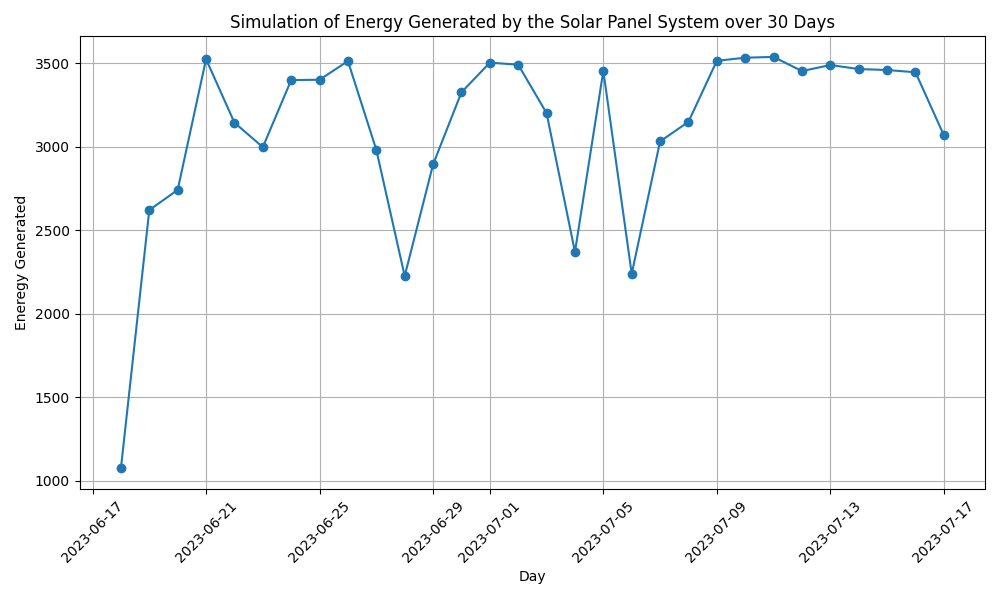
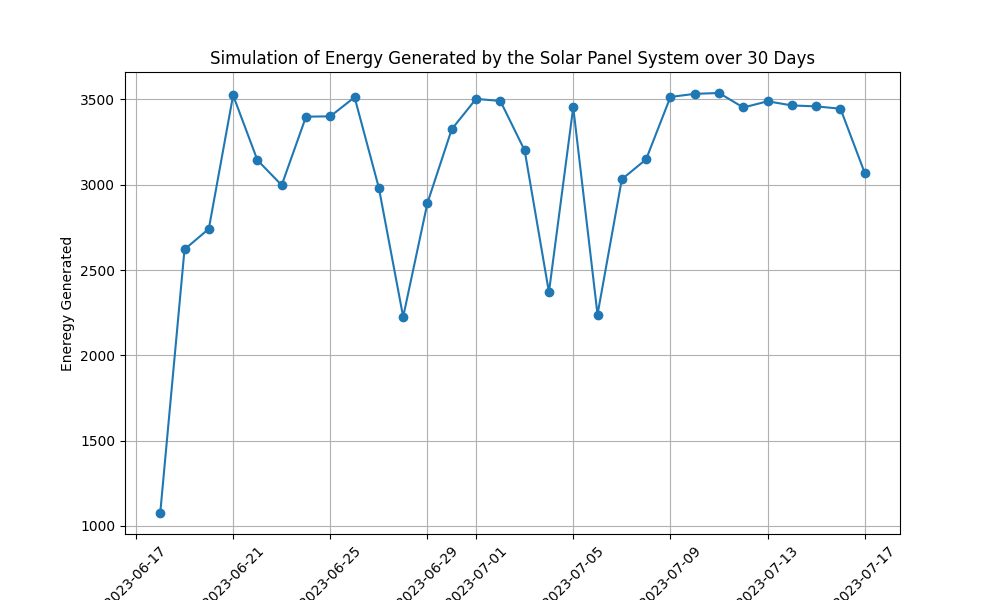
first commit

diff --git a/Components/solarPanels.py b/Components/solarPanels.py
@@ -3,6 +3,8 @@ from resources import getCityInfo
 from numpy import mean
 
 def simulateSolarPanels(city_name, numberOfpanels, totalSurfaceArea,OptToPlot):
+    plt.close()
+    print("Fetching Info, this might take upto 9 seconds ... ")
     globalHorizontalIrradiance = getCityInfo(city_name)
     panelEffeciency = 0.2                                                                                       # The panel effeicency of modern day solar panels range from 19 to 23 %
     AverageGHI = mean(list(globalHorizontalIrradiance.values())[:-1])
@@ -21,7 +23,6 @@ def simulateSolarPanels(city_name, numberOfpanels, totalSurfaceArea,OptToPlot):
         plt.title('Simulation of Energy Generated by the Solar Panel System over 30 Days')
         plt.xticks(rotation=45)  
         plt.grid(True)
-        plt.tight_layout()  
         plt.savefig('Energy Generated by the Solar Panel System.png') 
 
     return AverageEnergybyTimeStep

diff --git a/simulate.py b/simulate.py
@@ -8,7 +8,7 @@ import Components.fluid
 
 
 def simulate(solarHeatGain,simulationTime):
-
+    plt.close()
     fluidSpecs = getfluidSpecs('water')
     pipeSpecs = pipeSystem()
     tankTemp = [302]
